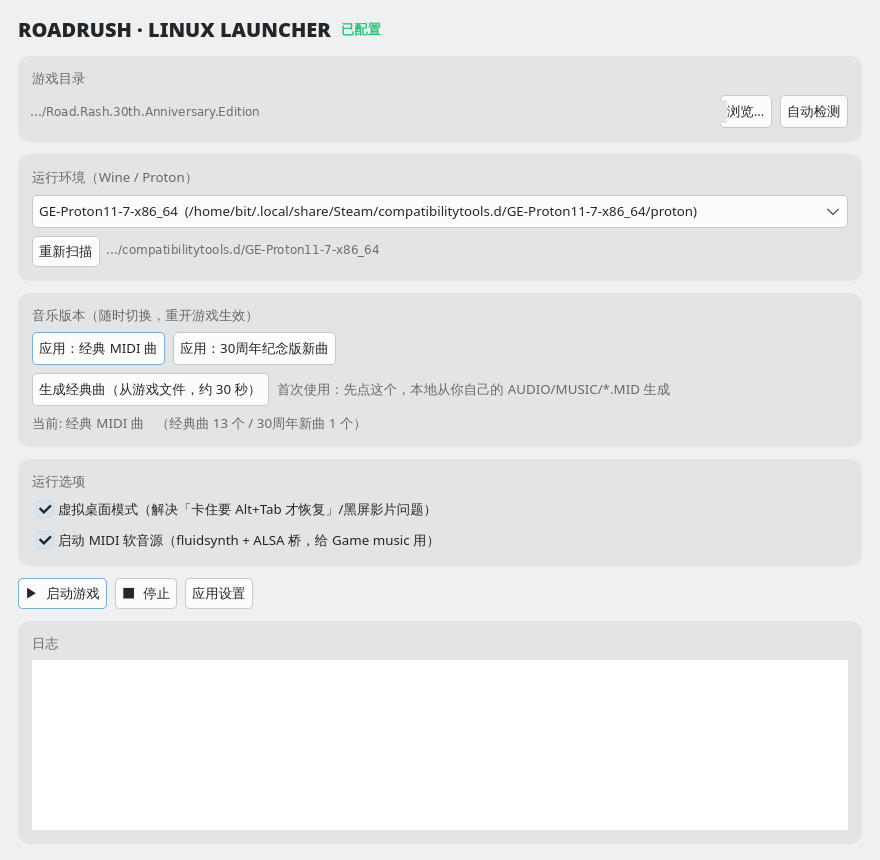
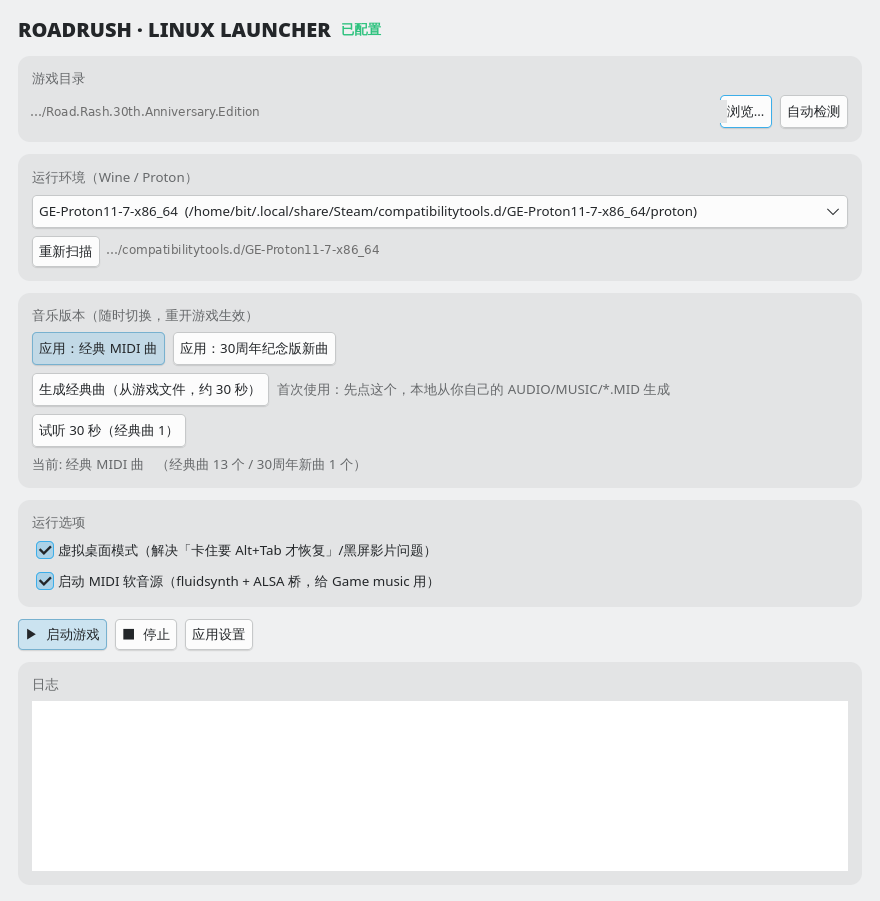
feat(gui): 试听 30 秒按钮（播放 GRUNGE1，再点一次停止）+ 更新截图

diff --git a/gui.py b/gui.py
@@ -127,6 +127,15 @@ class Launcher(Gtk.Application):
         hint.add_css_class("dim"); hint.set_xalign(0)
         row2.append(hint)
         box_music.append(row2)
+
+        row3 = Gtk.Box(orientation=Gtk.Orientation.HORIZONTAL, spacing=8)
+        self.btn_preview = Gtk.Button(label="试听 30 秒（经典曲 1）")
+        self.btn_preview.connect("clicked", self._on_preview)
+        row3.append(self.btn_preview)
+        self.lbl_preview = Gtk.Label(label="")
+        self.lbl_preview.add_css_class("dim"); self.lbl_preview.set_xalign(0)
+        row3.append(self.lbl_preview)
+        box_music.append(row3)
         self.lbl_music = Gtk.Label(label="")
         self.lbl_music.add_css_class("dim")
         self.lbl_music.set_xalign(0)
@@ -266,6 +275,30 @@ class Launcher(Gtk.Application):
         self.lbl_game.set_text(str(p))
         self.log(f">> 游戏目录: {p}")
         self._refresh_music()
+
+    def _on_preview(self, _b):
+        import subprocess, shutil
+        if getattr(self, "_preview_proc", None) and self._preview_proc.poll() is None:
+            self._preview_proc.terminate()
+            self._preview_proc = None
+            self.lbl_preview.set_text("已停止")
+            return
+        for base in (Path.home() / "Music/roadrush-classic",
+                     Path("/tmp/rr-gen-test"),
+                     Path(self.cfg.game_dir) / "AUDIO/MUSIC._orig"):
+            f = base / "GRUNGE1.flac"
+            if f.is_file():
+                break
+        else:
+            self.lbl_preview.set_text("没找到 GRUNGE1.flac（先点『生成经典曲』）")
+            return
+        player = shutil.which("paplay") or shutil.which("pw-play")
+        if not player:
+            self.lbl_preview.set_text("缺 paplay/pw-play")
+            return
+        self._preview_proc = subprocess.Popen(["timeout", "-s", "TERM", "30", player, str(f)],
+                                              stdout=subprocess.DEVNULL, stderr=subprocess.DEVNULL)
+        self.lbl_preview.set_text(f"正在播放 30 秒：{f.name}")
 
     def _on_generate(self, _b):
         if not self.cfg.game_dir:
